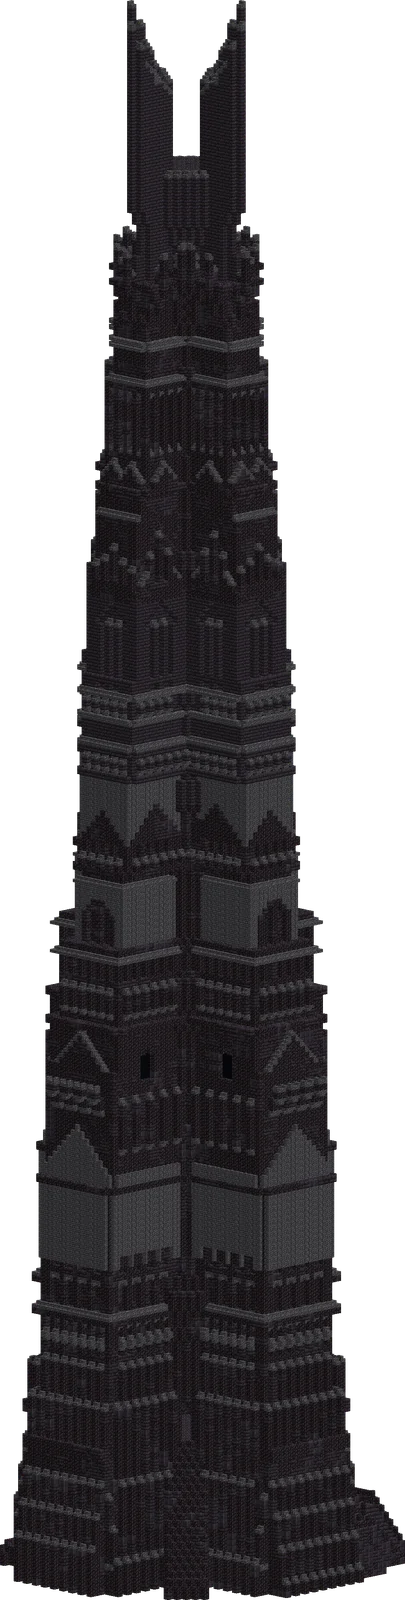
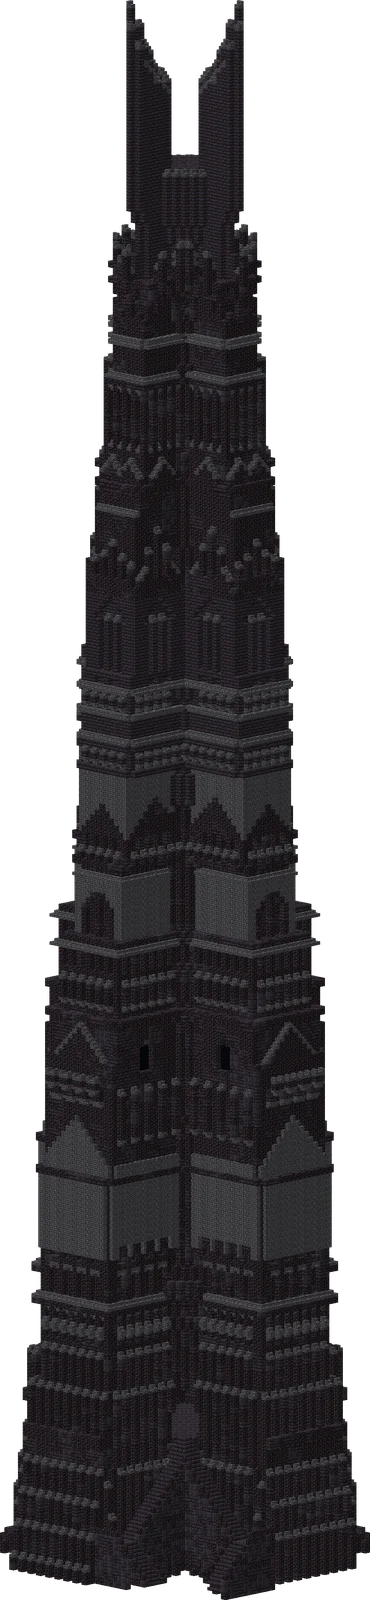
Orthanc render: face the real north-west staircase (east/west camera yaw were swapped)

Changed region(s): [[0.0, 0.0, 1.0, 1.0], [0.4459, 0.2188, 0.4757, 0.25], [0.3865, 0.1562, 0.4162, 0.1875]]

diff --git a/shop/themes/orthanc-obsidian/index.html b/shop/themes/orthanc-obsidian/index.html
@@ -28,12 +28,12 @@
       <path d="M92 120h56v8H92zM88 150h64v6H88z" fill="#07070a" opacity=".8"/>
       <circle cx="120" cy="124" r="2.5" fill="#d9573a"/>
     </svg>
-    <figure class="build" hidden><img id="build" alt="The Castle Crafty shop: a black Orthanc tower built in Minecraft" width="405" height="1600" fetchpriority="high"></figure>
+    <figure class="build" hidden><img id="build" alt="The Castle Crafty shop: a black Orthanc tower built in Minecraft" width="370" height="1600" fetchpriority="high"></figure>
     <script>
     // orthanc.webp: render of the build from its schematic (_dev/litematic-render), facing the north-west staircase
     (function(){var v=+document.documentElement.dataset.v;if(!v)return;
-      var img=document.getElementById('build'); img.src='orthanc.webp?r=2'; img.parentNode.hidden=false;
-      if(v===3)document.querySelector('.top').style.setProperty('--bg','url(orthanc.webp?r=2)');})();
+      var img=document.getElementById('build'); img.src='orthanc.webp?r=3'; img.parentNode.hidden=false;
+      if(v===3)document.querySelector('.top').style.setProperty('--bg','url(orthanc.webp?r=3)');})();
     </script>
     <p class="eyebrow">Isengard · Middle-earth</p>
     <h1 id="shop-name">Castle Crafty</h1>

diff --git a/_dev/litematic-render/render.py b/_dev/litematic-render/render.py
@@ -12,7 +12,7 @@ from litematic import load
 
 DIRS = {'north': (0, 0, -1), 'south': (0, 0, 1), 'east': (1, 0, 0), 'west': (-1, 0, 0), 'up': (0, 1, 0), 'down': (0, -1, 0)}
 SHADE = {'up': 1.0, 'down': 0.5, 'north': 0.8, 'south': 0.8, 'east': 0.6, 'west': 0.6}
-SIDE_YAW = {'south': 0, 'west': 90, 'north': 180, 'east': 270}  # camera on that side, looking at it
+SIDE_YAW = {'south': 0, 'east': 90, 'north': 180, 'west': 270}  # camera on that side (yaw 90 puts it at +x = east)
 
 
 class Assets:
